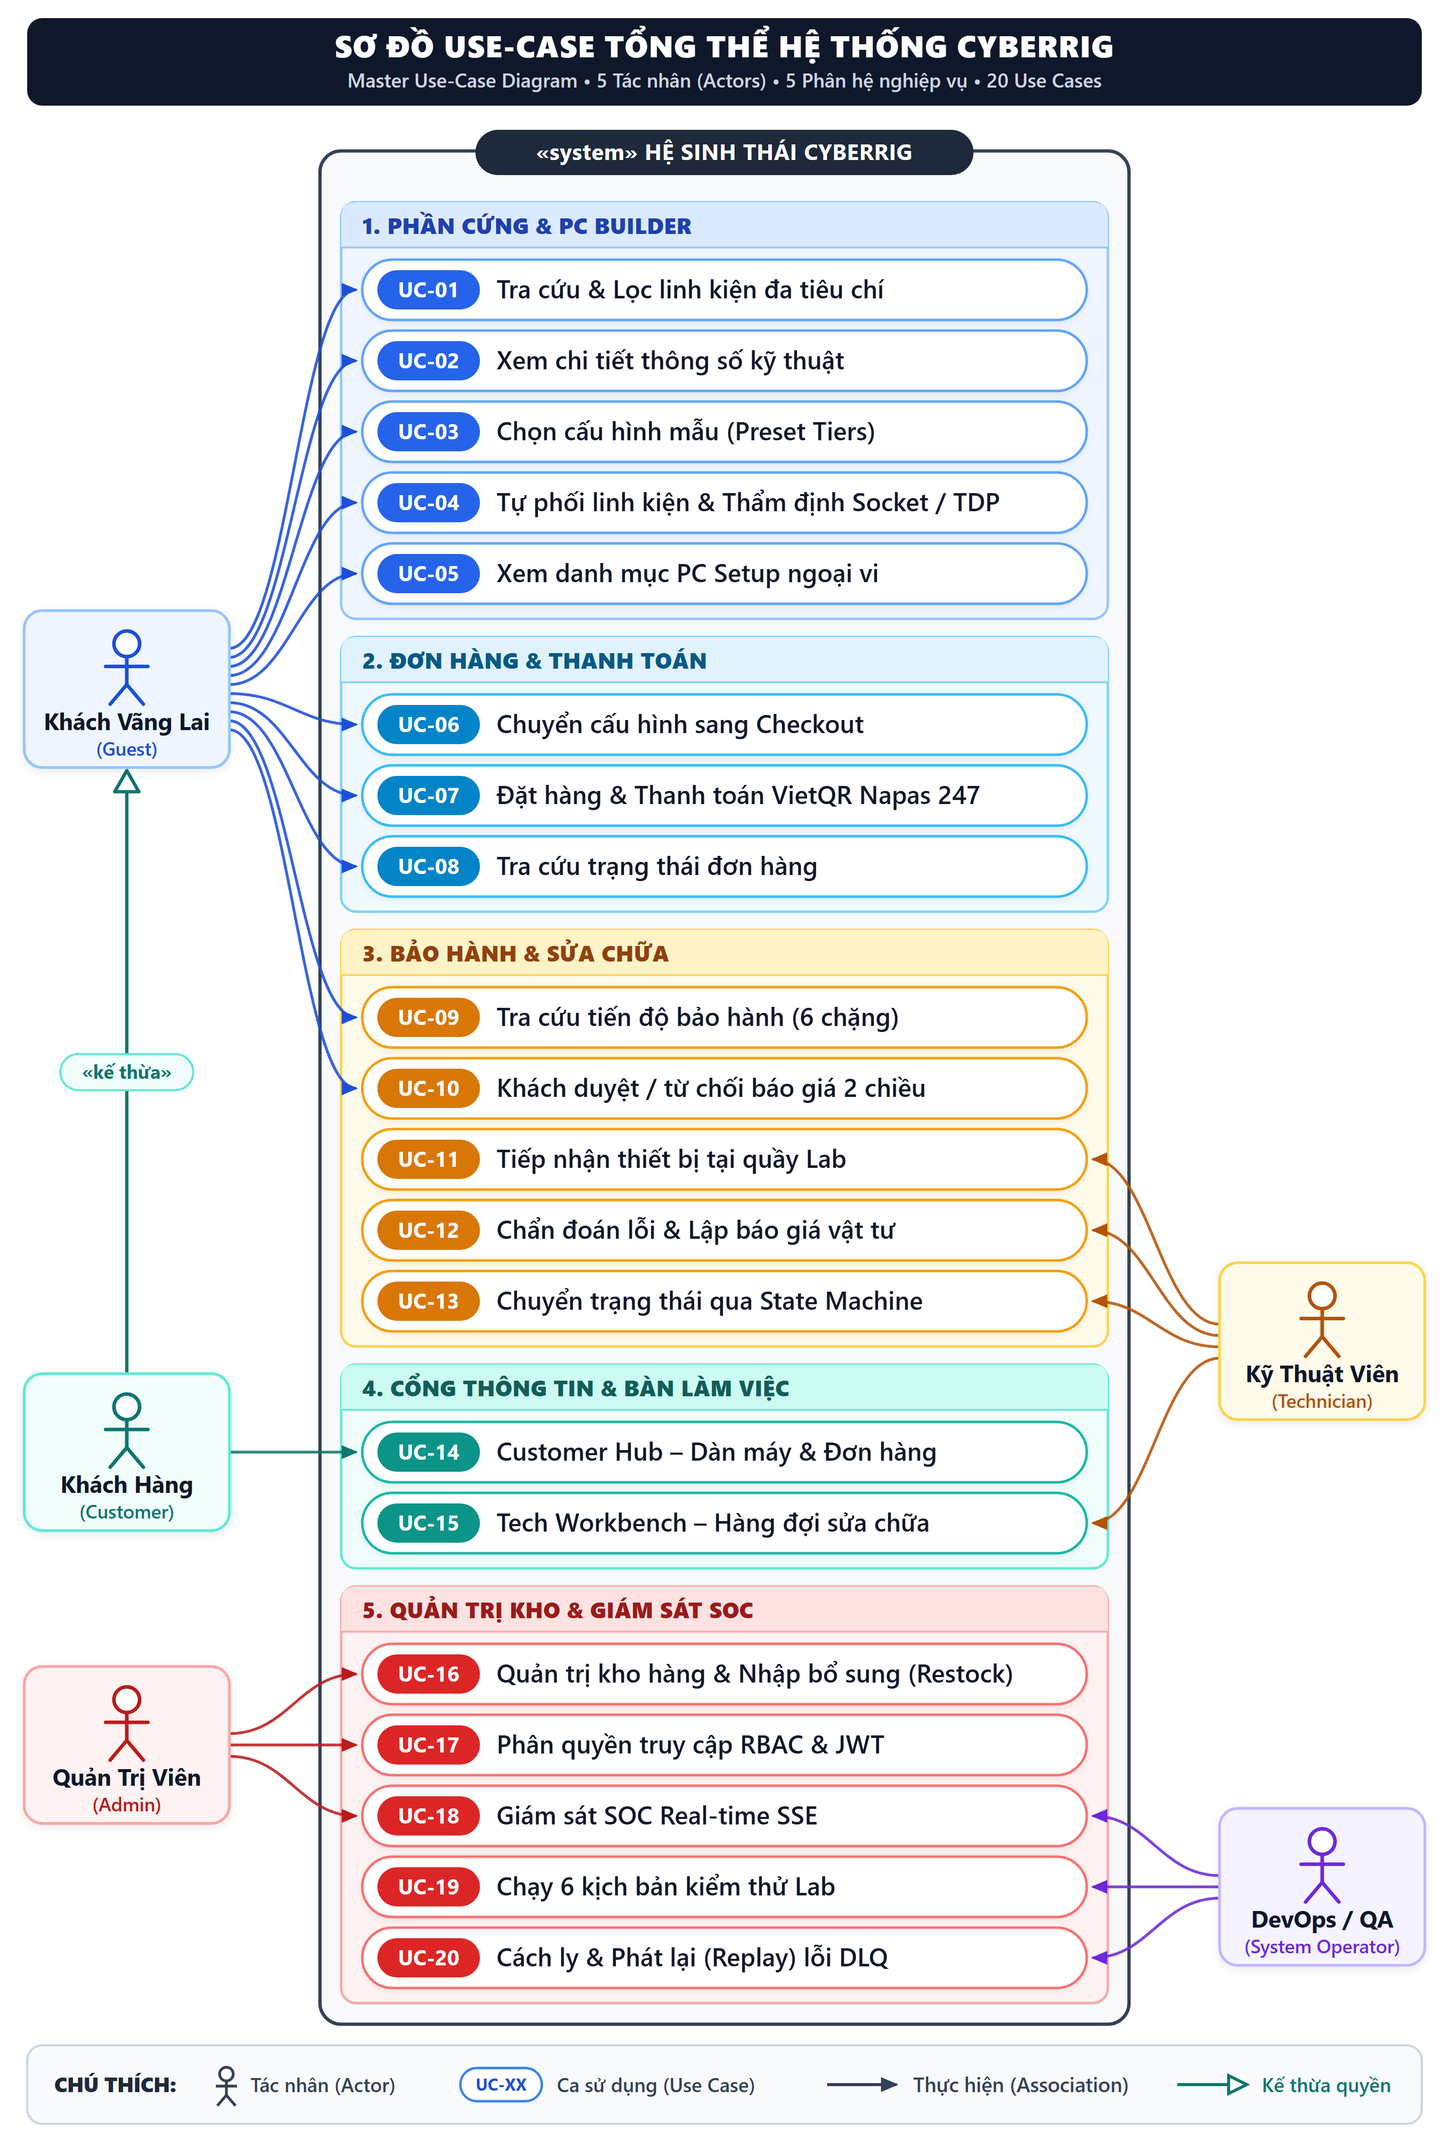
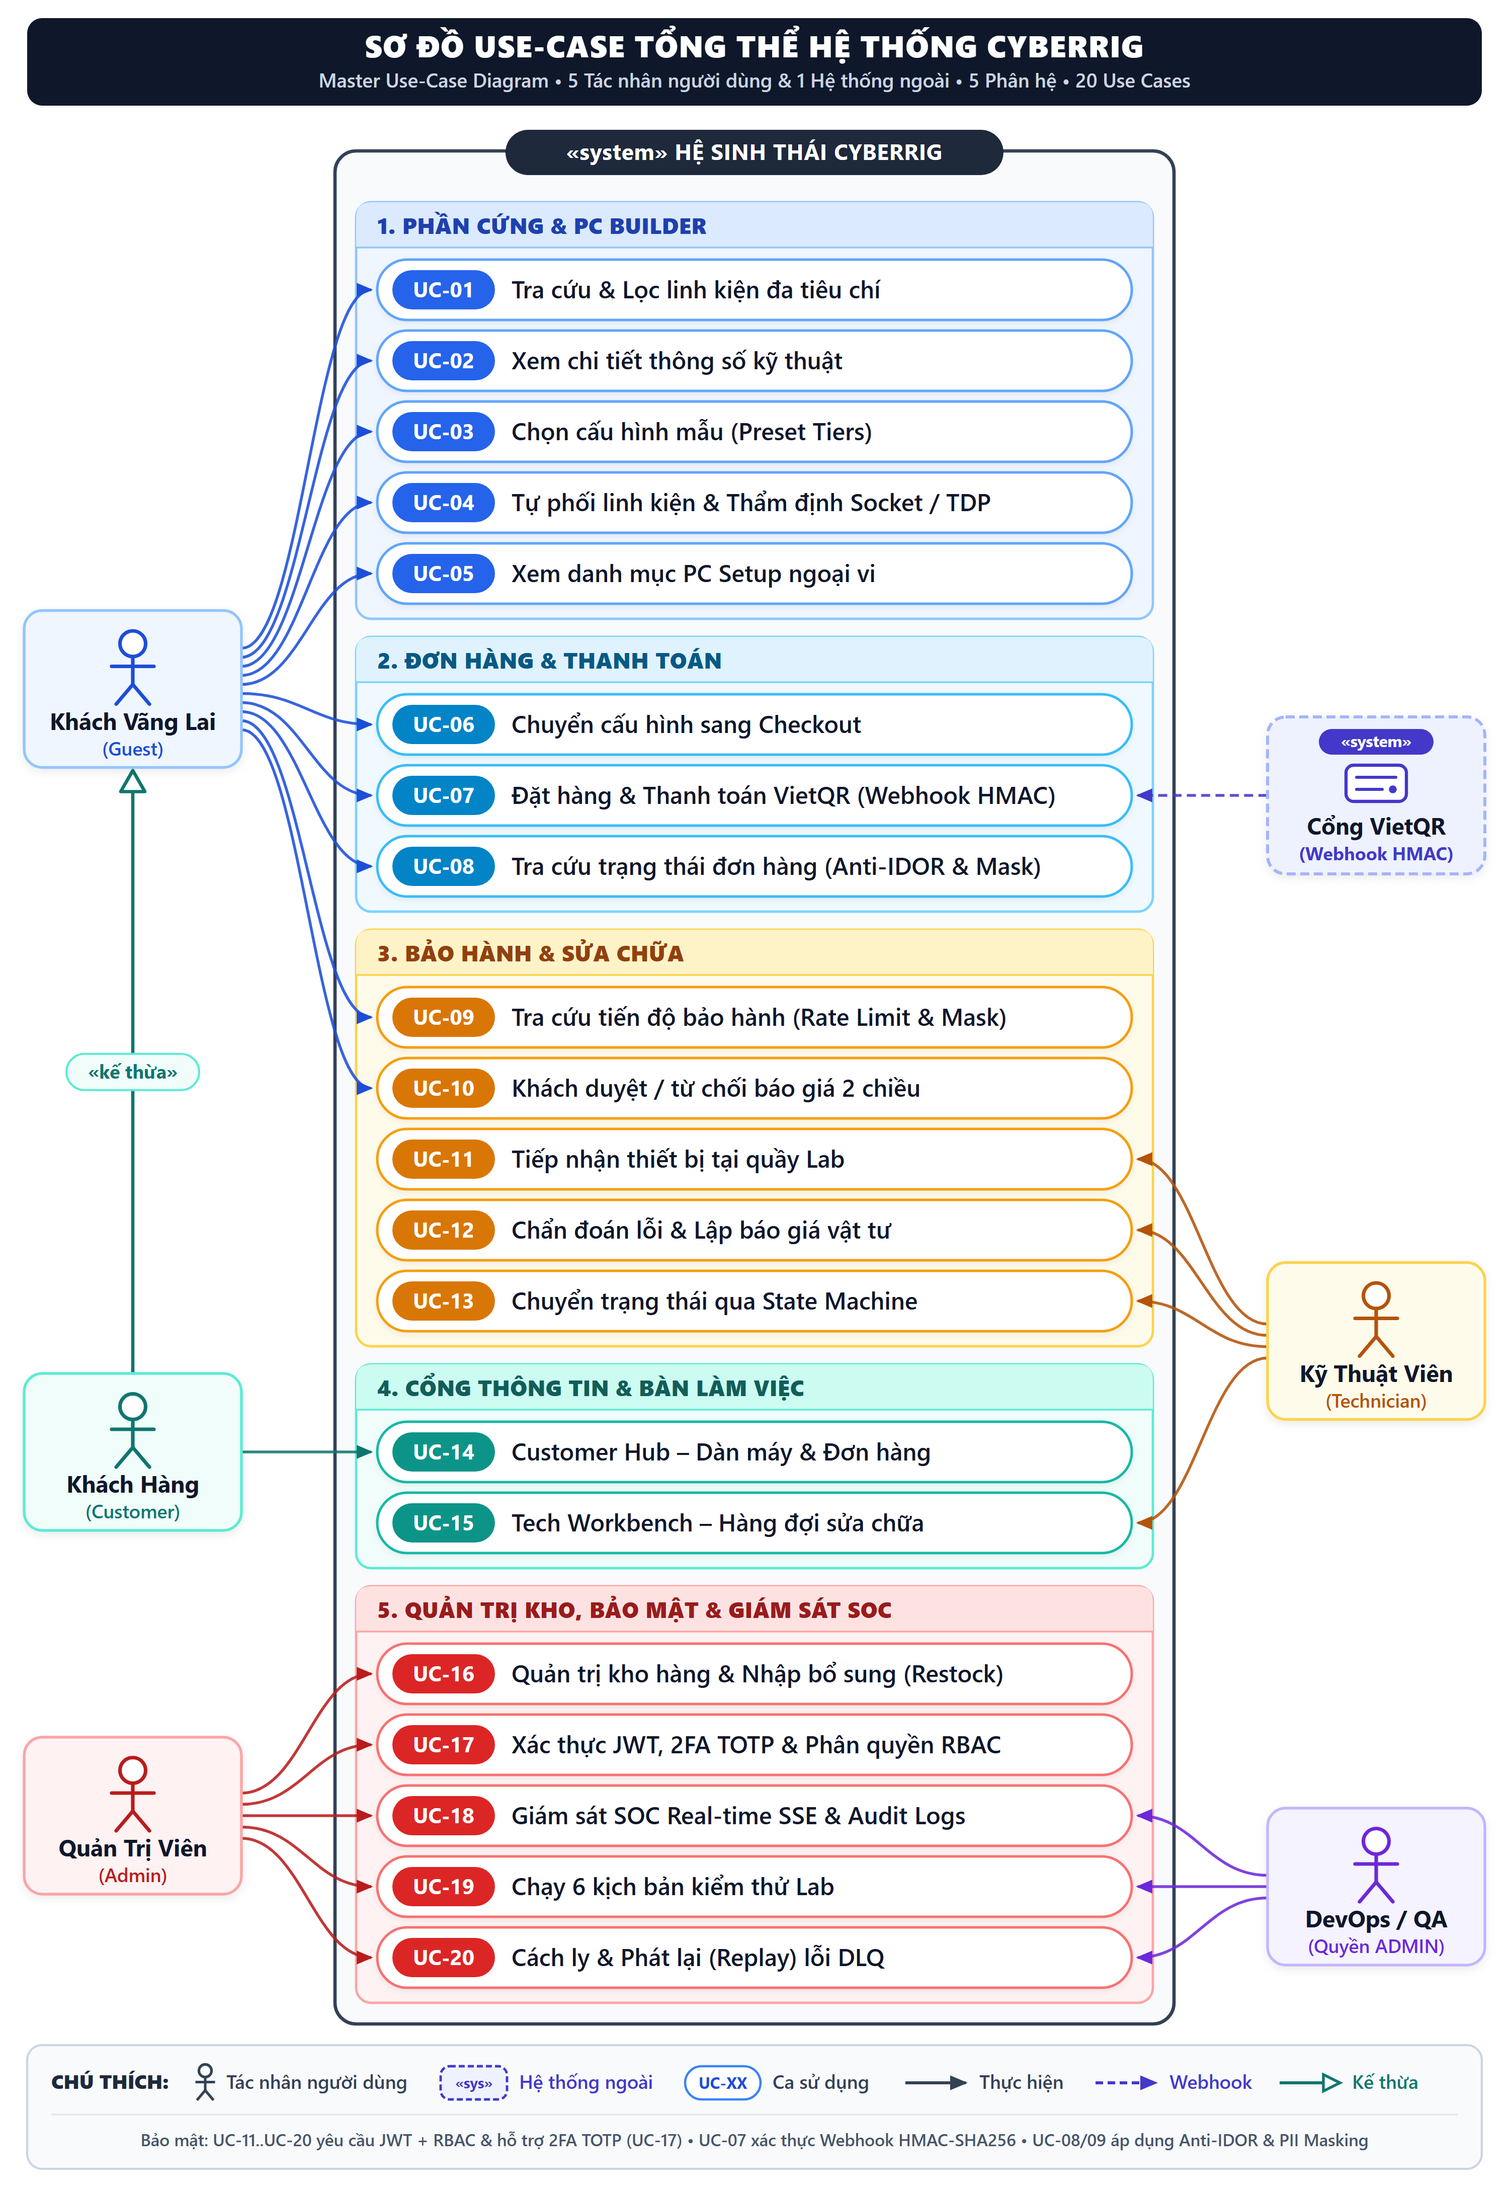
docs(uml): update master use-case diagram v2.1 and VietQR actor

diff --git a/docs/USE-CASES.md b/docs/USE-CASES.md
@@ -16,7 +16,8 @@ flowchart TD
     Customer["👤 Khách Hàng Thành Viên (Customer)"]
     Tech["🔧 Kỹ Thuật Viên (Technician)"]
     Admin["👑 Quản Trị Viên (Admin)"]
-    DevOps["⚡ DevOps / QA Engineer"]
+    DevOps["⚡ DevOps / QA Engineer (Quyền ADMIN)"]
+    VietQR["🏦 «system» Cổng Thanh Toán VietQR (Webhook HMAC)"]
 
     %% Phân hệ 1: Retail & Builder
     subgraph Sub1["[1] Phân Hệ Phần Cứng & PC Builder"]
@@ -30,13 +31,13 @@ flowchart TD
     %% Phân hệ 2: Checkout & Orders
     subgraph Sub2["[2] Phân Hệ Đơn Hàng & Thanh Toán"]
         UC06(["UC-06: Chuyển cấu hình sang Checkout"])
-        UC07(["UC-07: Đặt hàng & Thanh toán VietQR động"])
-        UC08(["UC-08: Tra cứu trạng thái đơn hàng"])
+        UC07(["UC-07: Đặt hàng & Thanh toán VietQR (Webhook HMAC)"])
+        UC08(["UC-08: Tra cứu trạng thái đơn hàng (Anti-IDOR & PII Mask)"])
     end
 
     %% Phân hệ 3: Repair & Warranty
     subgraph Sub3["[3] Phân Hệ Bảo Hành & Sửa Chữa"]
-        UC09(["UC-09: Tra cứu tiến độ phiếu bảo hành"])
+        UC09(["UC-09: Tra cứu tiến độ phiếu bảo hành (Rate Limit & PII Mask)"])
         UC10(["UC-10: Phê duyệt báo giá sửa chữa 2 chiều"])
         UC11(["UC-11: Tiếp nhận máy tại quầy Lab"])
         UC12(["UC-12: Giám định lỗi & Lập báo giá vật tư"])
@@ -52,8 +53,8 @@ flowchart TD
     %% Phân hệ 5: Admin, Security & Monitoring
     subgraph Sub5["[5] Quản Trị Kho, Bảo Mật & SI Monitoring"]
         UC16(["UC-16: Quản trị kho linh kiện & Tồn kho an toàn"])
-        UC17(["UC-17: Phân quyền & Quản lý người dùng"])
-        UC18(["UC-18: Giám sát SOC Real-time SSE & Health Probes"])
+        UC17(["UC-17: Xác thực JWT, 2FA TOTP & Phân quyền RBAC"])
+        UC18(["UC-18: Giám sát SOC Real-time SSE & Audit Logs"])
         UC19(["UC-19: Kích hoạt 6 kịch bản kiểm thử Lab"])
         UC20(["UC-20: Kiểm tra & Phát lại thông điệp DLQ"])
     end
@@ -74,22 +75,29 @@ flowchart TD
     Customer -- Kế thừa quyền Guest --> Guest
     Customer --> UC14
 
+    %% Mối liên kết Hệ thống thanh toán ngoài
+    VietQR -. Webhook HMAC-SHA256 .-> UC07
+
     %% Mối liên kết Kỹ thuật viên
     Tech --> UC11
     Tech --> UC12
     Tech --> UC13
     Tech --> UC15
 
-    %% Mối liên kết Quản trị viên
+    %% Mối liên kết Quản trị viên (khớp middleware requireRoles('ADMIN'))
     Admin --> UC16
     Admin --> UC17
     Admin --> UC18
+    Admin --> UC19
+    Admin --> UC20
 
-    %% Mối liên kết DevOps / QA
+    %% Mối liên kết DevOps / QA (vận hành bằng tài khoản quyền ADMIN)
     DevOps --> UC18
     DevOps --> UC19
     DevOps --> UC20
 ```
+
+> **Lưu ý bảo mật xuyên suốt:** Tất cả Use Case nội bộ (`UC-11`..`UC-20`) yêu cầu xác thực JWT (`HttpOnly` Cookie Refresh Token Rotation + Redis `jti` Blacklist) và kiểm tra phân quyền RBAC (`UC-17`), hỗ trợ bảo vệ 2 lớp **2FA TOTP** (`/api/auth/2fa/*`). Toàn bộ nhóm API giám sát SOC (`UC-18`..`UC-20`) yêu cầu quyền `ADMIN` và kết nối SSE dùng vé một lần (`/api/monitoring/stream-ticket`).
 
 ---
 
@@ -97,11 +105,12 @@ flowchart TD
 
 | Tác nhân (Actor) | Bản chất vai trò | Trách nhiệm & Quyền hạn chính |
 | :--- | :--- | :--- |
-| **Khách Vãng Lai (Guest)** | Người dùng ngoài internet chưa đăng nhập | • Tìm kiếm linh kiện, xem catalog phần cứng.<br>• Sử dụng công cụ PC Builder thẩm định tương thích socket/công suất.<br>• Đặt mua hàng, quét mã VietQR và tra cứu đơn hàng công khai.<br>• Tra cứu tiến độ phiếu bảo hành và duyệt/từ chối báo giá trực tuyến. |
-| **Khách Hàng (Customer)** | Khách hàng đã có tài khoản định danh | • Toàn bộ quyền hạn của Guest.<br>• Quản trị dàn máy cá nhân, xem toàn bộ lịch sử đơn hàng và bảo hành tập trung trên Customer Dashboard. |
-| **Kỹ Thuật Viên (Technician)** | Nhân sự kỹ thuật phòng Lab bảo hành | • Tiếp nhận thiết bị tại quầy (thiết bị mua tại cửa hàng hoặc ngoài).<br>• Kiểm định phần cứng, ghi nhận lỗi, lập báo giá linh kiện + công thợ.<br>• Cập nhật các chặng chuyển trạng thái của phiếu theo State Machine. |
-| **Quản Trị Viên (Admin)** | Quản lý cửa hàng và vận hành kinh doanh | • Thêm mới linh kiện, cập nhật giá, điều chỉnh tồn kho an toàn.<br>• Ngừng kinh doanh sản phẩm (Soft delete), theo dõi chỉ số tồn kho.<br>• Phân quyền tài khoản người dùng và thiết lập tham số hệ thống. |
-| **Kỹ Sư DevOps / QA (System Operator)** | Kỹ sư vận hành, kiểm thử chất lượng | • Giám sát SOC thời gian thực (trạng thái Docker container, broker queues).<br>• Phân tích thông điệp lỗi trong Dead Letter Queue (DLQ) và bấm phát lại (Replay).<br>• Kích hoạt 6 kịch bản kiểm thử tích hợp tại Testing Lab để đánh giá hồi quy. |
+| **Khách Vãng Lai (Guest)** | Người dùng ngoài internet chưa đăng nhập | • Tìm kiếm linh kiện, xem catalog phần cứng.<br>• Sử dụng công cụ PC Builder thẩm định tương thích socket/công suất.<br>• Đặt mua hàng, quét mã VietQR và tra cứu đơn hàng (qua `?phone=` chống IDOR, dữ liệu PII được che mờ).<br>• Tra cứu tiến độ phiếu bảo hành (giới hạn 30 req/phút, che mờ PII) và duyệt/từ chối báo giá trực tuyến. |
+| **Khách Hàng (Customer)** | Khách hàng đã có tài khoản định danh (`CUSTOMER`) | • Toàn bộ quyền hạn của Guest.<br>• Đăng nhập JWT (`HttpOnly` Cookie), bật/tắt bảo mật 2 lớp 2FA TOTP.<br>• Quản trị dàn máy cá nhân, xem toàn bộ lịch sử đơn hàng và bảo hành tập trung trên Customer Dashboard. |
+| **Kỹ Thuật Viên (Technician)** | Nhân sự kỹ thuật phòng Lab bảo hành (`TECHNICIAN`) | • Tiếp nhận thiết bị tại quầy (thiết bị mua tại cửa hàng hoặc ngoài).<br>• Kiểm định phần cứng, ghi nhận lỗi, lập báo giá linh kiện + công thợ.<br>• Cập nhật các chặng chuyển trạng thái của phiếu theo State Machine. |
+| **Quản Trị Viên (Admin)** | Quản lý cửa hàng và vận hành hệ thống (`ADMIN`) | • Thêm mới linh kiện, cập nhật giá, điều chỉnh tồn kho an toàn, soft-delete.<br>• Quản trị phân quyền RBAC, chính sách xác thực JWT/2FA TOTP.<br>• Truy cập toàn bộ Dark SOC (`/admin-monitoring/`), xem Nhật ký Kiểm toán Bảo mật (`Audit Logs`), kích hoạt Testing Lab và phát lại DLQ. |
+| **Kỹ Sư DevOps / QA (System Operator)** | Kỹ sư vận hành, kiểm thử chất lượng (dùng tài khoản quyền `ADMIN`) | • Giám sát SOC thời gian thực (SSE qua Single-use Ticket, trạng thái Docker container, broker queues) và tra cứu `Audit Logs`.<br>• Phân tích thông điệp lỗi trong Dead Letter Queue (DLQ) và bấm phát lại (Replay).<br>• Kích hoạt 6 kịch bản kiểm thử tích hợp tại Testing Lab để đánh giá hồi quy. |
+| **Cổng Thanh Toán VietQR (`«system»`)** | Hệ thống ngân hàng bên thứ ba (Webhook HMAC-SHA256) | • Gửi yêu cầu callback có chữ ký mật mã `HMAC-SHA256` (`X-CyberRig-Signature`, `X-CyberRig-Timestamp`) tới `POST /api/orders/:id/confirm` để xác nhận thanh toán thực tế và chuyển trạng thái đơn sang `PAID`. |
 
 ---
 
@@ -115,9 +124,9 @@ flowchart TD
 | **UC-04** | Tự phối linh kiện & Thẩm định tương thích Socket/TDP | PC Builder | Guest, Customer | Must |
 | **UC-05** | Tra cứu danh mục PC Setup & Thiết bị không gian làm việc | Equipments | Guest, Customer | Should |
 | **UC-06** | Chuyển giỏ hàng cấu hình sang trang Checkout Split-View | Checkout | Guest, Customer | Must |
-| **UC-07** | Đặt hàng & Thanh toán bằng cổng động VietQR Napas 247 | Checkout | Guest, Customer | Must |
-| **UC-08** | Tra cứu tình trạng đơn hàng công khai theo mã | Orders | Guest, Customer | Should |
-| **UC-09** | Tra cứu tiến độ phiếu bảo hành với Timeline 6 chặng | Repair Tickets | Guest, Customer | Must |
+| **UC-07** | Đặt hàng & Thanh toán VietQR Napas 247 (Xác thực Webhook HMAC-SHA256) | Checkout | Guest, Customer, VietQR Webhook | Must |
+| **UC-08** | Tra cứu tình trạng đơn hàng theo mã (Chống IDOR & Che mờ PII) | Orders | Guest, Customer | Should |
+| **UC-09** | Tra cứu tiến độ phiếu bảo hành 6 chặng (Rate Limit 30 req/phút & PII Masking) | Repair Tickets | Guest, Customer | Must |
 | **UC-10** | Khách hàng phê duyệt hoặc từ chối báo giá sửa chữa | Repair Tickets | Guest, Customer | Must |
 | **UC-11** | Tiếp nhận thiết bị sửa chữa tại quầy Lab (Internal/External) | Technician Hub | Technician | Must |
 | **UC-12** | Soạn biên bản chẩn đoán & Lập báo giá vật tư chi tiết | Technician Hub | Technician | Must |
@@ -125,8 +134,8 @@ flowchart TD
 | **UC-14** | Quản lý dàn máy & Lịch sử dịch vụ cá nhân (Dashboard) | Customer Hub | Customer | Should |
 | **UC-15** | Quản lý hàng đợi sửa chữa theo trạng thái (Workbench) | Technician Hub | Technician | Must |
 | **UC-16** | Quản trị kho hàng, nhập bổ sung & Cảnh báo tồn kho | Admin Hub | Admin | Must |
-| **UC-17** | Phân quyền truy cập hệ thống RBAC (JWT & Route Guards) | Security | Admin, System | Must |
-| **UC-18** | Giám sát SOC thời gian thực với In-Memory Telemetry & SSE | SI Monitoring | Admin, DevOps/QA | Must |
+| **UC-17** | Xác thực JWT (`HttpOnly` Rotation), 2FA TOTP & Phân quyền RBAC | Security | Admin, System | Must |
+| **UC-18** | Giám sát SOC thời gian thực (SSE Ticket) & Nhật ký Kiểm toán (Audit Logs) | SI Monitoring | Admin, DevOps/QA | Must |
 | **UC-19** | Kích hoạt 6 kịch bản kiểm thử tích hợp tự động | Testing Lab | Admin, DevOps/QA | Must |
 | **UC-20** | Kiểm tra, phân tích và phát lại (Replay) thông điệp lỗi DLQ | SI Monitoring | Admin, DevOps/QA | Must |
 
@@ -172,10 +181,11 @@ flowchart TD
      - Cú pháp chuyển khoản bắt buộc: `CYBERRIG ORD-2026-8891`.
      - Đồng hồ đếm ngược 15:00 phút.
   7. Khách hàng mở ứng dụng ngân hàng quét mã và thanh toán.
-  8. Hệ thống nhận tín hiệu thanh toán thành công (Webhook/Simulate), cập nhật trạng thái `PAID` và hiển thị màn hình xác nhận hoàn tất.
+  8. Cổng thanh toán VietQR (`«system»`) gửi Webhook kèm chữ ký `HMAC-SHA256` (`X-CyberRig-Signature`, `X-CyberRig-Timestamp`) tới `POST /api/orders/:id/confirm` (hoặc quản trị viên `ADMIN` xác nhận; môi trường dev/demo hỗ trợ `/simulate-payment`). Backend xác thực chữ ký chống giả mạo & Replay Attack, trừ tồn kho vật lý, cập nhật trạng thái `PAID` và hiển thị màn hình xác nhận hoàn tất.
 - **Luồng phụ / Ngoại lệ (Extensions)**:
   - *5a. Hết hàng trong kho (Zero Stock)*: Một linh kiện vừa bị đặt hết bởi khách hàng khác $\rightarrow$ Hệ thống trả về thông báo lỗi 409 Conflict, giải phóng phiên giữ hàng và thông báo người dùng đổi linh kiện khác.
   - *6a. Hết thời gian chờ thanh toán (15 phút)*: Khách hàng không chuyển khoản $\rightarrow$ Hệ thống tự động kích hoạt hủy đơn, Redis tự động hoàn trả số lượng linh kiện về kho sẵn sàng bán.
+  - *8a. Chữ ký Webhook không hợp lệ / quá hạn*: Request thiếu hoặc sai chữ ký `HMAC-SHA256` hoặc lệch timestamp vượt cửa sổ cho phép $\rightarrow$ Backend từ chối `401/403` và ghi nhận nhật ký kiểm toán bảo mật (`Audit Logs`).
 
 ---
 
@@ -199,11 +209,11 @@ flowchart TD
 ---
 
 ### 4.4. UC-20: Giám Sát SOC & Phân Tích, Phát Lại (Replay) Lỗi Trong Dead Letter Queue (DLQ)
-- **Mục tiêu**: Kỹ sư vận hành/DevOps phát hiện thông điệp lỗi độc hại (Poison Message), cách ly an toàn và kích hoạt thử lại sau khi xử lý gốc rễ.
-- **Tiền điều kiện**: Người dùng đăng nhập với quyền `ADMIN` hoặc `DEVOPS`.
+- **Mục tiêu**: Quản trị viên / Kỹ sư vận hành DevOps phát hiện thông điệp lỗi độc hại (Poison Message), cách ly an toàn, kích hoạt thử lại sau khi xử lý gốc rễ và theo dõi nhật ký kiểm toán bảo mật (`Audit Logs`).
+- **Tiền điều kiện**: Người dùng đăng nhập bằng tài khoản có quyền `ADMIN` (JWT hợp lệ, hỗ trợ 2FA TOTP); mọi endpoint `/api/monitoring/*` được bảo vệ bởi `authenticateToken` + `requireRoles('ADMIN')`.
 - **Luồng sự kiện chính (Main Success Scenario)**:
   1. Người dùng truy cập trang `/admin-monitoring/`, mặc định tại tab `[01] REAL-TIME MONITORING`.
-  2. Giao diện kết nối dòng sự kiện Server-Sent Events (SSE) hiển thị trạng thái 4 container Docker và chỉ số hàng đợi.
+  2. Giao diện xin vé kết nối một lần (`POST /api/monitoring/stream-ticket`), sau đó kết nối dòng sự kiện Server-Sent Events (`GET /api/monitoring/stream`) hiển thị trạng thái 4 container Docker, chỉ số hàng đợi và có thể tra cứu nhật ký kiểm toán (`GET /api/monitoring/audit-logs`).
   3. Khi có thông điệp hỏng (VD: JSON sai cấu trúc hoặc dịch vụ bên thứ ba mất kết nối sau 3 lần retry NACK), hệ thống tự động đẩy vào Dead Letter Queue.
   4. Bảng điều khiển DLQ phát chuông cảnh báo và hiển thị bản ghi mới:
      - `Message ID`: Mã thông điệp.
